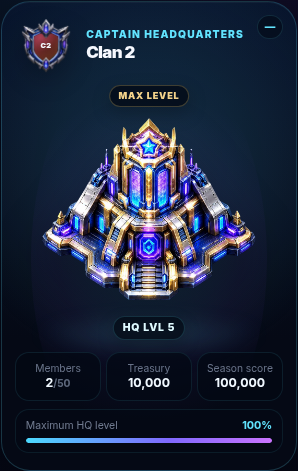
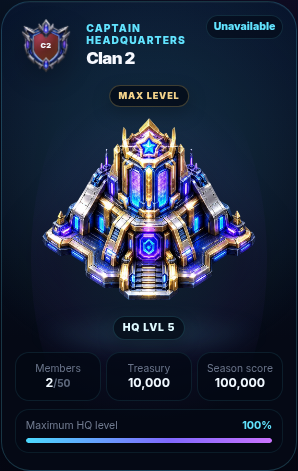
docs(b6): refresh final-contract visual evidence and paired review report

Changed region(s): [[0.2718, 0.0297, 0.9362, 0.1486]]

diff --git a/scripts/contracts/browser/clan-b5.spec.ts b/scripts/contracts/browser/clan-b5.spec.ts
@@ -20,7 +20,7 @@ async function enter(page: Page, actor: any, path = "/clan") {
 }
 const close = async (page: Page) => { await page.bringToFront(); await page.keyboard.press("Escape"); await expect(page.getByRole("dialog")).toHaveCount(0); };
 async function snapshot(page: Page, width: number, name: string) {
-  const folder = `work/b5-paired/mobile/${width}`; mkdirSync(folder, { recursive: true });
+  const folder = `work/${process.env.B6_BACKEND_ROOT ? "b6" : "b5"}-paired/mobile/${width}`; mkdirSync(folder, { recursive: true });
   await page.evaluate(() => document.activeElement instanceof HTMLElement && document.activeElement.blur());
   await page.screenshot({ path: `${folder}/${name}.png`, animations: "disabled" });
   expect(await page.evaluate(() => document.documentElement.scrollWidth <= innerWidth)).toBe(true);

diff --git a/e2e/b6-visual.spec.ts b/e2e/b6-visual.spec.ts
@@ -78,6 +78,7 @@ for (const width of [320, 390, 460]) test(`B6 preserved scenes and corrected asy
   f.data.activity = b6Activity[0];
   await page.goto(launch("/clan"));
   await expect(page.getByRole("navigation", { name: "Clan headquarters sections" })).toBeVisible();
+  await page.getByText("SEASON STANDING", { exact: true }).scrollIntoViewIfNeeded();
   await shot("canonical-standing");
   await page.getByRole("button", { name: /recruits waiting/ }).click();
   await expect(page.getByRole("dialog")).toContainText(before ? "ACTIVE" : "STREAK");

diff --git a/docs/B6_FRONTEND_REPORT.md b/docs/B6_FRONTEND_REPORT.md
@@ -1,6 +1,6 @@
-# Batch 6 frontend implementation — backend handoff pending
+# Batch 6 frontend integration
 
-Draft [PR #9](https://github.com/hassan-anari/FROCAL/pull/9), branch `ai/b6-frontend-integration`, from merged routing-fix main `f7324b07cda2ede8d55679457699ad376d03447d`. [Audit of owner-confirmed issues](B6_AUDIT.md). This is the schema-independent portion authorized by the owner; final Batch 6 API integration is pending WEDCAL's published contract and exact runtime SHA.
+Draft [PR #9](https://github.com/hassan-anari/FROCAL/pull/9), branch `ai/b6-frontend-integration`, from merged routing-fix main `f7324b07cda2ede8d55679457699ad376d03447d`. [Audit of owner-confirmed issues](B6_AUDIT.md). The owner-approved final WEDCAL B6 contract is integrated in this same Draft. The final checkout is `28a6b8805db5f9a8c70b78c5eadf5c6276dbccd1`; runtime/schema implementation is `13e7b1988181980b6ad80b69a8e9f28347e31802`. Receipt and exact pins are explicitly acknowledged in [Issue #8](https://github.com/hassan-anari/FROCAL/issues/8).
 
 ## Implemented
 
@@ -12,27 +12,27 @@ Draft [PR #9](https://github.com/hassan-anari/FROCAL/pull/9), branch `ai/b6-fron
 - Public `VITE_TELEGRAM_BOT_URL` selects the Test/Production bot for Clan and Profile sharing/reopening. Clan Add Bot strips inherited payloads and opens a neutral group/admin link. Remote Network registration still uses the server-issued signed `startgroup_url`. Missing/invalid configuration fails closed; set the approved public URL in each build environment. No bot credential or Telegram launch data is added to configuration.
 - Status uses understandable request, invitation, cancellation, recovery and governance labels. PENDING remains a request; ACCEPTED reserves capacity and still requires Telegram verification. Legacy/older unsafe paths retain persistent support guidance and read-only discovery, with all join/invite/cancel actions blocked. Invitation links remain disposable modal memory, excluded from Query and browser storage.
 - Earn Network History and its existing sheet allow only canonical `CREATOR` and `NETWORK_SPEAKER` settlements, verified in pinned WEDCAL `apps/network/services.py`. Pagination/deduplication remain server-cursor based; all-filtered pages can continue and failed continuation can retry. Base and the shared general reward cache remain unfiltered.
-- Unsupported mission requirements no longer become editorial instructions. Unknown display metadata uses safe unavailable copy until the backend publishes real titles/descriptions. No mission Claim control or client settlement is added. The HQ log retains real Treasury entries with readable labels and an integrated empty state until the new feed is available.
+- Admin-created Individual/Group missions use real title, description, definition version, requirement availability, progress, target, published participant gross reward/direct HQ XP/band and canonical own reward/settlement status. Unsupported requirements never become editorial instructions. No mission Claim control or client settlement is added.
+- The unchanged HQ log card reads authenticated `/clans/activity`, with stable ID keys, source `occurred_at` timestamps, server keyset ordering (including sub-millisecond precision), opaque cursor pagination and duplicate suppression. Its loading, empty, initial/background failure and continuation retry states use approved components. The feed refreshes with Clan polling/resume/mutation reconciliation, including page one for late finalized events. Feed units are never summed into income. Treasury history remains independently canonical and available.
+- Applicant cards consume authoritative global Season rank/rank_status and Daily current_streak; ACTIVE is renamed STREAK. Unranked, Updating and Unavailable remain distinct; zero streak renders 0d. HQ uses Home rank/status, and identity/discovery/preview use the canonical Clan summary. A score-3/#1 fixture displays #1 with 0 HQ XP and 0 whole Treasury credits.
 - Treasury/HQ use canonical whole balance, history, score, contribution and actual HQ XP. Zero Treasury and 0% progress at 0 HQ XP remain correct with nonzero score/contribution. Backend fractional accumulation is never duplicated on the client.
 
-## Backend-dependent work
+## Exact backend pairing
 
-| Integration | Required handoff |
-| --- | --- |
-| Applicant global Season rank and Daily current streak | Final fields, null semantics, authoritative fixtures and B6 pin. Existing null metrics are not populated speculatively. |
-| Real HQ Recent Activity | Authorized feed response, pagination/event labels/timestamps and fixtures. Current log remains Treasury-only; no demo events in Remote mode. |
-| Admin Group/Individual mission display | Exact title, description, requirement/reward display metadata and supported semantics. Existing progress/economics remain server-owned. |
-| Clan Standing consistency | Authoritative rank in the finalized Clan ranking contract. Owner's Dexo Caln example must show #1 once that data is published; score never determines rank locally. |
-| B6 economic and invite policy changes | Final runtime/contract and actual paired tests, including fractional Treasury credits and no private invite-URL messages. Existing Mini App open-group flow is retained. |
+[`scripts/contracts/b6-pin.json`](../scripts/contracts/b6-pin.json) pins **WEDCAL `28a6b8805db5f9a8c70b78c5eadf5c6276dbccd1`**, with runtime/schema **`13e7b1988181980b6ad80b69a8e9f28347e31802`**. The final checkout differs from that runtime only in docs/representative fixtures. Pinned source and OpenAPI/HTTP bytes are copied verbatim and Git-blob checked; Zod schemas are generated from that OpenAPI. Historical B2/B3/B4/B5 pins and fixtures remain unchanged.
 
-The unchanged integration pin remains **WEDCAL B5 `65a2c45810c0d5f721c662f3d4681967829ef242`**. B2/B3/B4 historical pins and all pinned fixture/source bytes are preserved. No B6 schema, endpoint, fixture or runtime is guessed. Once the owner supplies the final B6 handoff, update an exact verified pin and complete those integrations and paired acceptance in this same batch.
+`npm run test:paired:b6` refuses a mismatched or modified backend checkout, non-local/non-isolated database, or occupied harness port. It runs the exact backend Clan/B6 notification/group-image tests, regenerates fresh B5/B6 HTTP examples, validates frontend DTO/client reads and runs the real API/mobile browser scenarios. Exported backend fixture bytes are restored in `finally`; no contract fixture is manually edited to conceal incompatibility. Source/Admin/Telegram/storage controls exist only in the isolated test harness; production reads and writes go through real authenticated APIs and canonical services.
+
+The paired flows cover Captain/Soldier application/acceptance/verified activation, absent private invitation deliveries plus authenticated `/invite/current`, Daily streak/Season rank, Arena/Home/detail consistency, signed cross-Clan cursor rejection, feed provenance/pagination, secure image capability delivery/fallback, Admin-created missions and automatic settlement, Treasury sequence/replay, Shop/Inventory effects, recovery and background refresh. Prospective fractional carry is checked using committed balances/history; no client percentage, remainder or credit calculation exists.
+
+No B6 backend-contract integration remains deferred. Physical Telegram/WebView and production rollout acceptance remain owner operations; these tests use synthetic transports and make no live sends or economic transactions.
 
 ## Validation
 
 The branch contains regression coverage for each corrected loading/error/empty surface, initial destination gating, stale HQ preservation, authorization denial, committed-write/refetch failure separation, duplicate-write prevention, polling bounds, native/focus refresh coalescing, invitation storage safety, unsafe request paths, bot configuration, candidate photos/count fallbacks, 46px registration, Network-only pagination/retry and zero Treasury/HQ progress.
 
-Final command results and exact-head hosted conclusions are recorded in the PR validation section. The [visual report](B6_VISUAL_REPORT.md) includes immutable-main before/after evidence at 320, 390 and 460px, computed control sizes and screenshot/source hashes. Existing broad app, B4/B5 visual and historical paired gates remain enabled in CI; new B6 visual/functional checks are added to that workflow.
+Local static/schema/unit/build/bundle gates pass **47 files / 322 tests**, and B6 functional/visual checks pass **23 scenarios**, plus **3** immutable-main baseline captures. The exact-backend selected domain run passes **306 tests**. Full fresh HTTP/mobile paired results and exact-head hosted conclusions are recorded in the PR validation section. The [visual report](B6_VISUAL_REPORT.md) includes immutable-main before/after evidence at 320, 390 and 460px, computed control sizes and screenshot/source hashes. Existing broad app, B4/B5 visual and historical paired gates remain enabled in CI; new B6 visual/functional checks and a seventh, exact-checkout B6 paired CI job are added to that workflow.
 
 ## Preserved boundaries
 
-API origin/proxy and Vercel trailing/non-trailing routing are unchanged. Base Next Objectives, approved layouts, artwork, card hierarchy, navigation, modal structure, reward reveals and Season 2 locked states are retained. No backend code, production data/economy, live Telegram send, merge or deployment is performed. This Draft is not full B6 acceptance until the backend-dependent rows and final paired gate are complete.
+API origin/proxy and Vercel trailing/non-trailing routing are unchanged. Base Next Objectives, approved layouts, artwork, card hierarchy, navigation, modal structure, reward reveals and Season 2 locked states are retained. No backend code, production data/economy, live Telegram send, merge or deployment is performed. Keep PR #9 Draft for owner and independent review. No merge or deployment is authorized. Exact final-head CI conclusions, counts and any remaining test blockers are recorded in the PR validation section. The previous B3 Typing input-enable timeout and successful retry remain disclosed there; the test is retained without weakening or skipping.

diff --git a/docs/B6_VISUAL_REPORT.md b/docs/B6_VISUAL_REPORT.md
@@ -2,7 +2,7 @@
 
 Baseline: immutable merged main **`f7324b07cda2ede8d55679457699ad376d03447d`**. Captures use the same installed Chromium, reduced motion and 320/390/460 × 844px viewports. No PR-head screenshot is accepted as its own baseline. [Baseline provenance](evidence/b6/baseline-provenance.json) and [source/screenshot hashes and comparisons](evidence/b6/validation-manifest.json).
 
-**84 PNGs / 42 before-after pairs** cover Clan entry, Captain HQ and the isolated HQ scene, Status, background HQ error, empty candidates, registration, History loading/error/empty/filtering, and preserved Base/Profile/Arena. These are isolated browser diagnostics using existing B4/B5 contracts; actual PostgreSQL-backed Captain/Soldier acceptance is reported separately. No screenshot claims a published B6 feed/rank/streak/mission contract or physical Telegram-device certification.
+**102 PNGs / 51 before-after pairs** cover Clan entry, Captain HQ and the isolated HQ scene, Status, background HQ error, empty candidates, registration, History loading/error/empty/filtering, canonical Season Standing, applicant Rank/Streak, source-backed activity, and preserved Base/Profile/Arena. These are isolated browser diagnostics using the published B4/B5/B6 contracts and verbatim B6 HTTP examples; actual PostgreSQL-backed Captain/Soldier, mission and activity screenshots are retained in the exact-backend CI artifact. Physical Telegram-device certification is not implied. The exact backend checkout is `28a6b8805db5f9a8c70b78c5eadf5c6276dbccd1`; runtime/schema is `13e7b1988181980b6ad80b69a8e9f28347e31802`.
 
 ## Measured authorized control changes
 
@@ -18,14 +18,17 @@ The Status right edge matches the existing header right edge at each width. Shar
 
 Base, Profile and Arena screenshots have **zero pixels changed** above the 10/255 channel comparison threshold at all three widths. The new browser gate also compares them directly against the immutable-main screenshots with a 0.2% maximum difference, without updating expected snapshots. Existing B4 guards remain.
 
-HQ scene crop dimensions remain **298×471, 368×507 and 438×523px**. Its artwork, geometry and art-related CSS are unchanged. Raw crop differences are approximately **1.07%, 11.43%, 0.70%** at the respective widths. Manual inspection identifies edge/text/art raster differences after the header changes the scene's viewport position; these crops are not claimed as pixel-identical guards. The original before/after files are retained for independent inspection; no masks or newly blessed expected HQ image are used.
+HQ scene crop dimensions remain **298×471, 368×507 and 438×523px**. Its artwork, geometry and art-related CSS are unchanged. Raw crop differences are approximately **3.38%, 12.12%, 1.28%** at the respective widths. The crop includes the intentional null-rank label change to Unavailable; the remaining artwork/text edge raster differences follow the compact header's changed viewport positioning. HQ art and scene CSS remain unchanged, and these crops are not claimed as pixel-identical guards. The original before/after files are retained for independent inspection; no masks or newly blessed expected HQ image are used.
 
-The intended visible differences are integrated animated/persistent read states, compact Status placement, 46px registration, understandable Status labels and the explicitly required Network/Speaker History scope. The existing card, scene, modal, avatar-fallback, navigation and reward/Season 2 visuals are retained.
+The intended visible differences are integrated animated/persistent read states, compact Status placement, 46px registration, understandable Status labels the explicitly required Network/Speaker History scope, authoritative rank/streak values and source-backed events. No mission Claim control is added. The existing card, scene, modal, avatar-fallback, navigation and reward/Season 2 visuals are retained.
 
 ## Review links
 
 | Surface | 320px | 390px | 460px |
 | --- | --- | --- | --- |
+| Canonical Standing (#1 / 0 HQ XP) | [Before](evidence/b6/320/before-canonical-standing.png) · [After](evidence/b6/320/after-canonical-standing.png) | [Before](evidence/b6/390/before-canonical-standing.png) · [After](evidence/b6/390/after-canonical-standing.png) | [Before](evidence/b6/460/before-canonical-standing.png) · [After](evidence/b6/460/after-canonical-standing.png) |
+| Applicant Rank / Streak | [Before](evidence/b6/320/before-applicant-metrics.png) · [After](evidence/b6/320/after-applicant-metrics.png) | [Before](evidence/b6/390/before-applicant-metrics.png) · [After](evidence/b6/390/after-applicant-metrics.png) | [Before](evidence/b6/460/before-applicant-metrics.png) · [After](evidence/b6/460/after-applicant-metrics.png) |
+| Authenticated Activity Feed | [Before](evidence/b6/320/before-source-activity.png) · [After](evidence/b6/320/after-source-activity.png) | [Before](evidence/b6/390/before-source-activity.png) · [After](evidence/b6/390/after-source-activity.png) | [Before](evidence/b6/460/before-source-activity.png) · [After](evidence/b6/460/after-source-activity.png) |
 | Captain Groups Empty | [Before](evidence/b6/320/before-captain-groups-empty.png) · [After](evidence/b6/320/after-captain-groups-empty.png) | [Before](evidence/b6/390/before-captain-groups-empty.png) · [After](evidence/b6/390/after-captain-groups-empty.png) | [Before](evidence/b6/460/before-captain-groups-empty.png) · [After](evidence/b6/460/after-captain-groups-empty.png) |
 | Captain Hq | [Before](evidence/b6/320/before-captain-hq.png) · [After](evidence/b6/320/after-captain-hq.png) | [Before](evidence/b6/390/before-captain-hq.png) · [After](evidence/b6/390/after-captain-hq.png) | [Before](evidence/b6/460/before-captain-hq.png) · [After](evidence/b6/460/after-captain-hq.png) |
 | Captain Registration | [Before](evidence/b6/320/before-captain-registration.png) · [After](evidence/b6/320/after-captain-registration.png) | [Before](evidence/b6/390/before-captain-registration.png) · [After](evidence/b6/390/after-captain-registration.png) | [Before](evidence/b6/460/before-captain-registration.png) · [After](evidence/b6/460/after-captain-registration.png) |
@@ -42,3 +45,5 @@ The intended visible differences are integrated animated/persistent read states,
 | Preserved Profile | [Before](evidence/b6/320/before-preserved-profile.png) · [After](evidence/b6/320/after-preserved-profile.png) | [Before](evidence/b6/390/before-preserved-profile.png) · [After](evidence/b6/390/after-preserved-profile.png) | [Before](evidence/b6/460/before-preserved-profile.png) · [After](evidence/b6/460/after-preserved-profile.png) |
 
 Full-screen Clan captures naturally shift content after the compact header change. The async states keep accessible status announcements and real Retry buttons. The History sample intentionally contains CREATOR, NETWORK_SPEAKER and DAILY records: the corrected sheet shows only the first two; general/Base history remains available.
+
+Canonical Standing uses the same supplied Home rank in both renders; merged main ignores that field while B6 displays #1. The fixture also preserves competitive score 3, Treasury 0 and HQ XP/progress 0. Applicant examples distinguish ranked and unranked Players and show actual 1d/0d streaks. Activity examples retain original occurred_at timestamps and stable event IDs; the before surface reads legacy Treasury history while the after surface consumes the authenticated feed. Actual Admin-created mission rendering, automatic settlement, roster verification and inventory economics are covered against the exact backend in the paired mobile artifact at all three widths.

diff --git a/docs/B6_AUDIT.md b/docs/B6_AUDIT.md
@@ -22,4 +22,4 @@ Audited FROCAL `f7324b07cda2ede8d55679457699ad376d03447d` (routing fix #7), B5 m
 
 The B5 JSX diff was searched separately to enumerate every new bare status node above. Related Base Recent Rewards and Next Objectives already have integrated/confirmed-data behavior; they are preserved. Existing Inventory empty cards, locked Season 2 states, modal structure, approved artwork, shared colors, navigation and reward/feedback visuals remain.
 
-No API-origin/proxy/routing files, Base objective implementation, backend code, pinned source snapshots or contract fixtures are changed. B6 backend-dependent integrations remain explicitly pending owner handoff.
+No API-origin/proxy/routing files, Base objective implementation, backend code, pinned source snapshots or contract fixtures are changed. The original handoff dependencies are now resolved by owner-approved WEDCAL B6 checkout `28a6b8805db5f9a8c70b78c5eadf5c6276dbccd1` (runtime/schema `13e7b1988181980b6ad80b69a8e9f28347e31802`), explicitly acknowledged in Issue #8. Applicant rank/streak, canonical Clan standing, real activity feed and Admin mission display are integrated; see [the implementation report](B6_FRONTEND_REPORT.md). The table records the initial main audit and the constraints that applied before this handoff.
